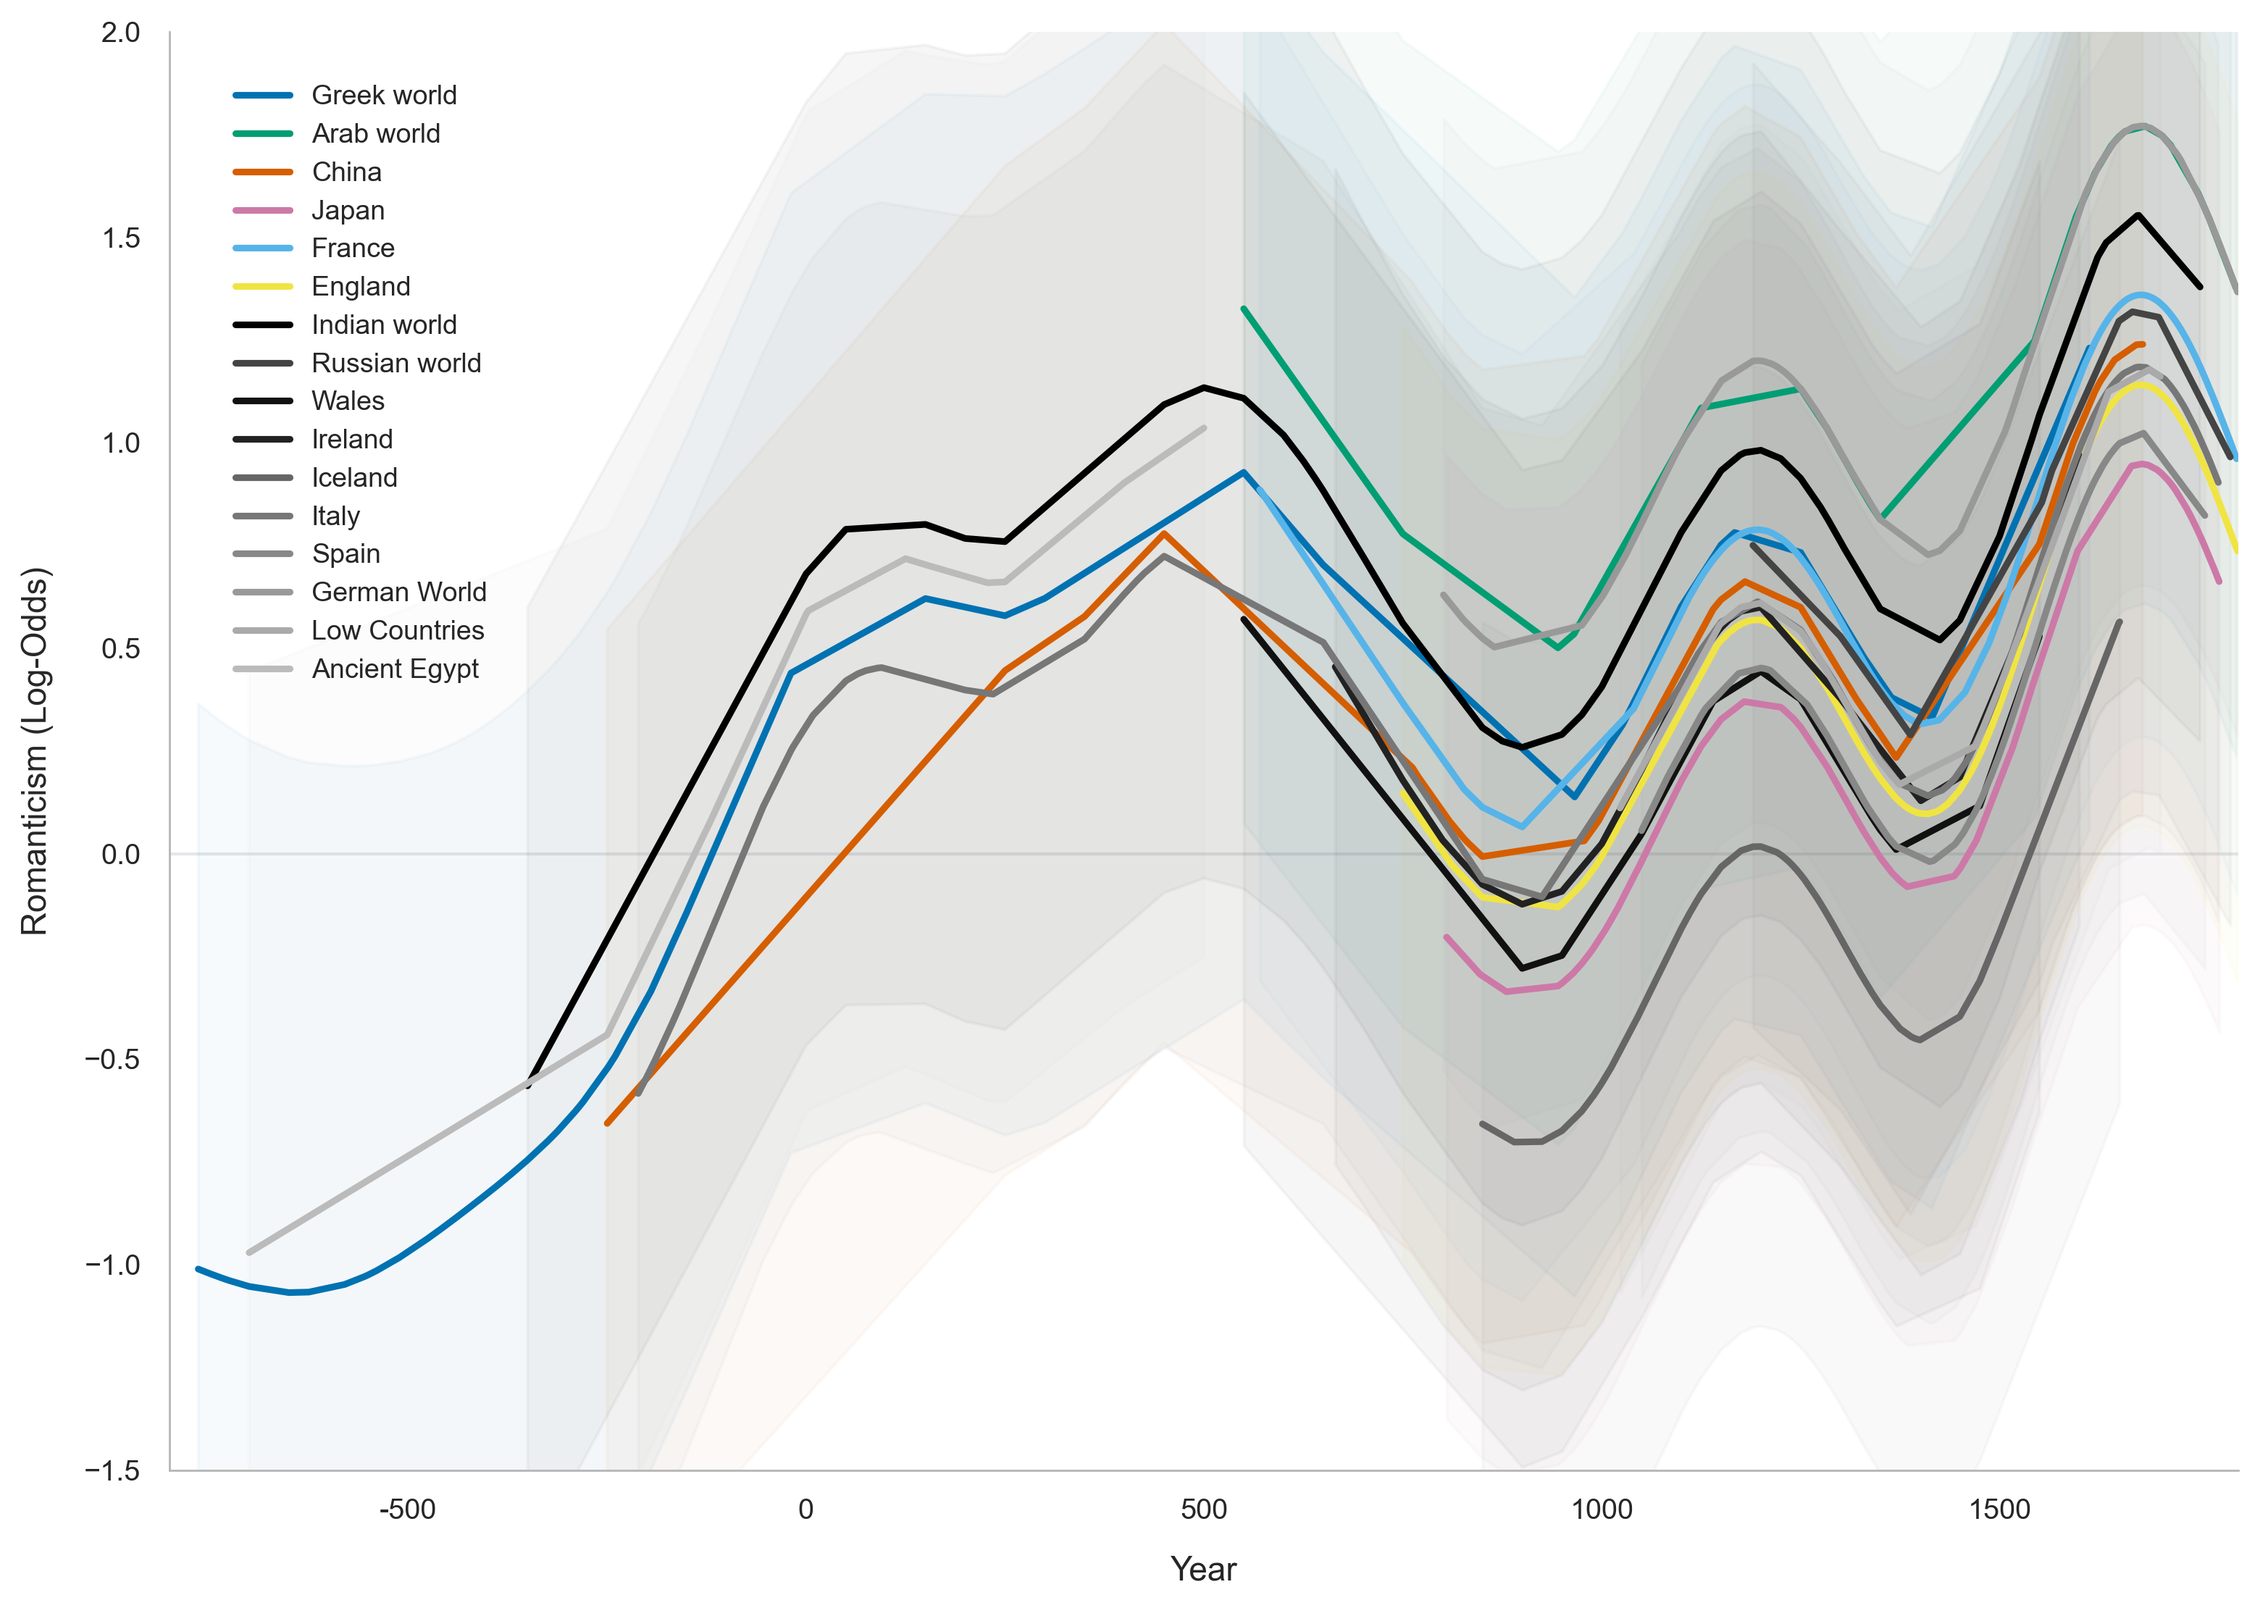
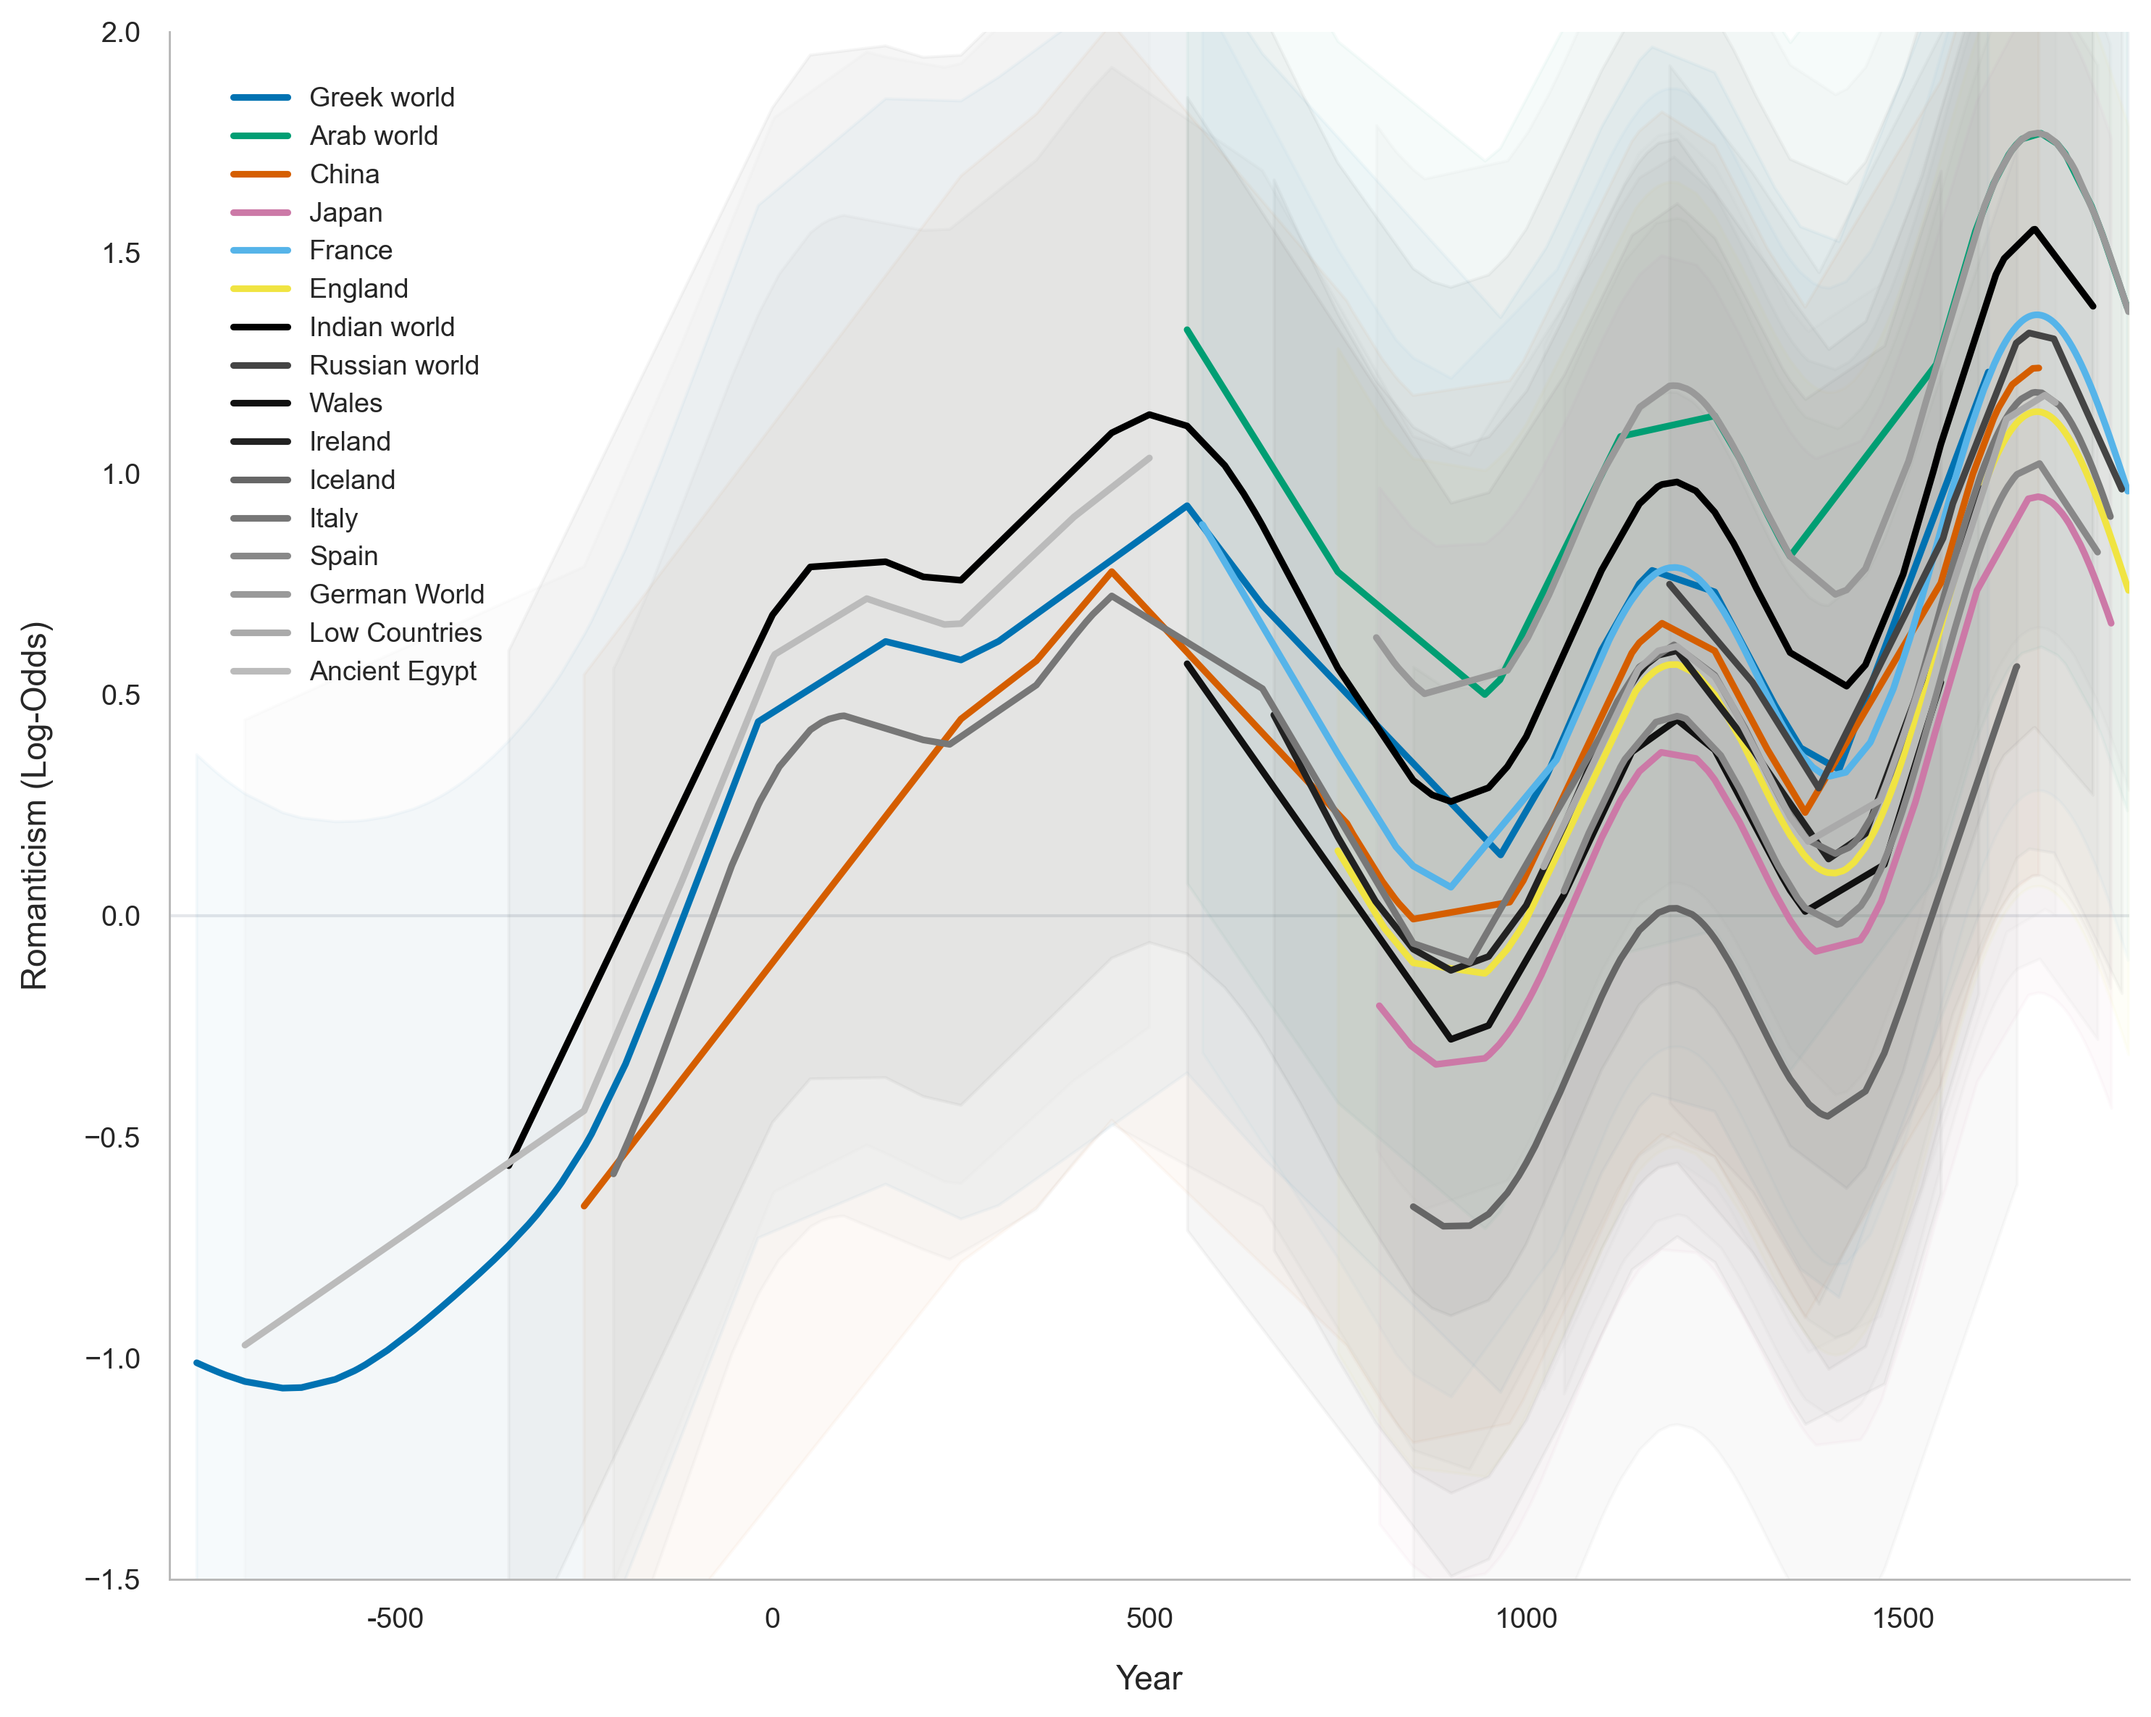
standardized figure sizes

diff --git a/utils/generate_plots.py b/utils/generate_plots.py
@@ -50,7 +50,7 @@ def plot_publication_trajectories(data_path='output/tables/etc_bayesian_latent_t
         'Ancient Egypt': {'code': 'EGY', 'color': '#bbbbbb'}
     }
 
-    fig, ax = plt.subplots(figsize=(10.5, 7.5), dpi=300)
+    fig, ax = plt.subplots(figsize=(10, 8), dpi=300)
     ax.axhline(0.0, color='#e5e7eb', linestyle='-', lw=1.0, zorder=1)
 
     for name, attrs in paper_styles.items():
@@ -106,7 +106,7 @@ def generate_century_binned_plot(data_path='output/tables/etc_bayesian_latent_tr
         'ARA': {'name': 'Arabic World', 'color': '#000000', 'marker': 'x', 'style': '--'}  # black dashed
     }
 
-    fig, ax = plt.subplots(figsize=(10, 5.5), dpi=300)
+    fig, ax = plt.subplots(figsize=(10, 8), dpi=300)
     ax.axvline(x=0, color='#888888', linestyle='--', linewidth=1, alpha=0.7)
     ax.grid(True, linestyle=':', alpha=0.4, color='#cccccc')
 
